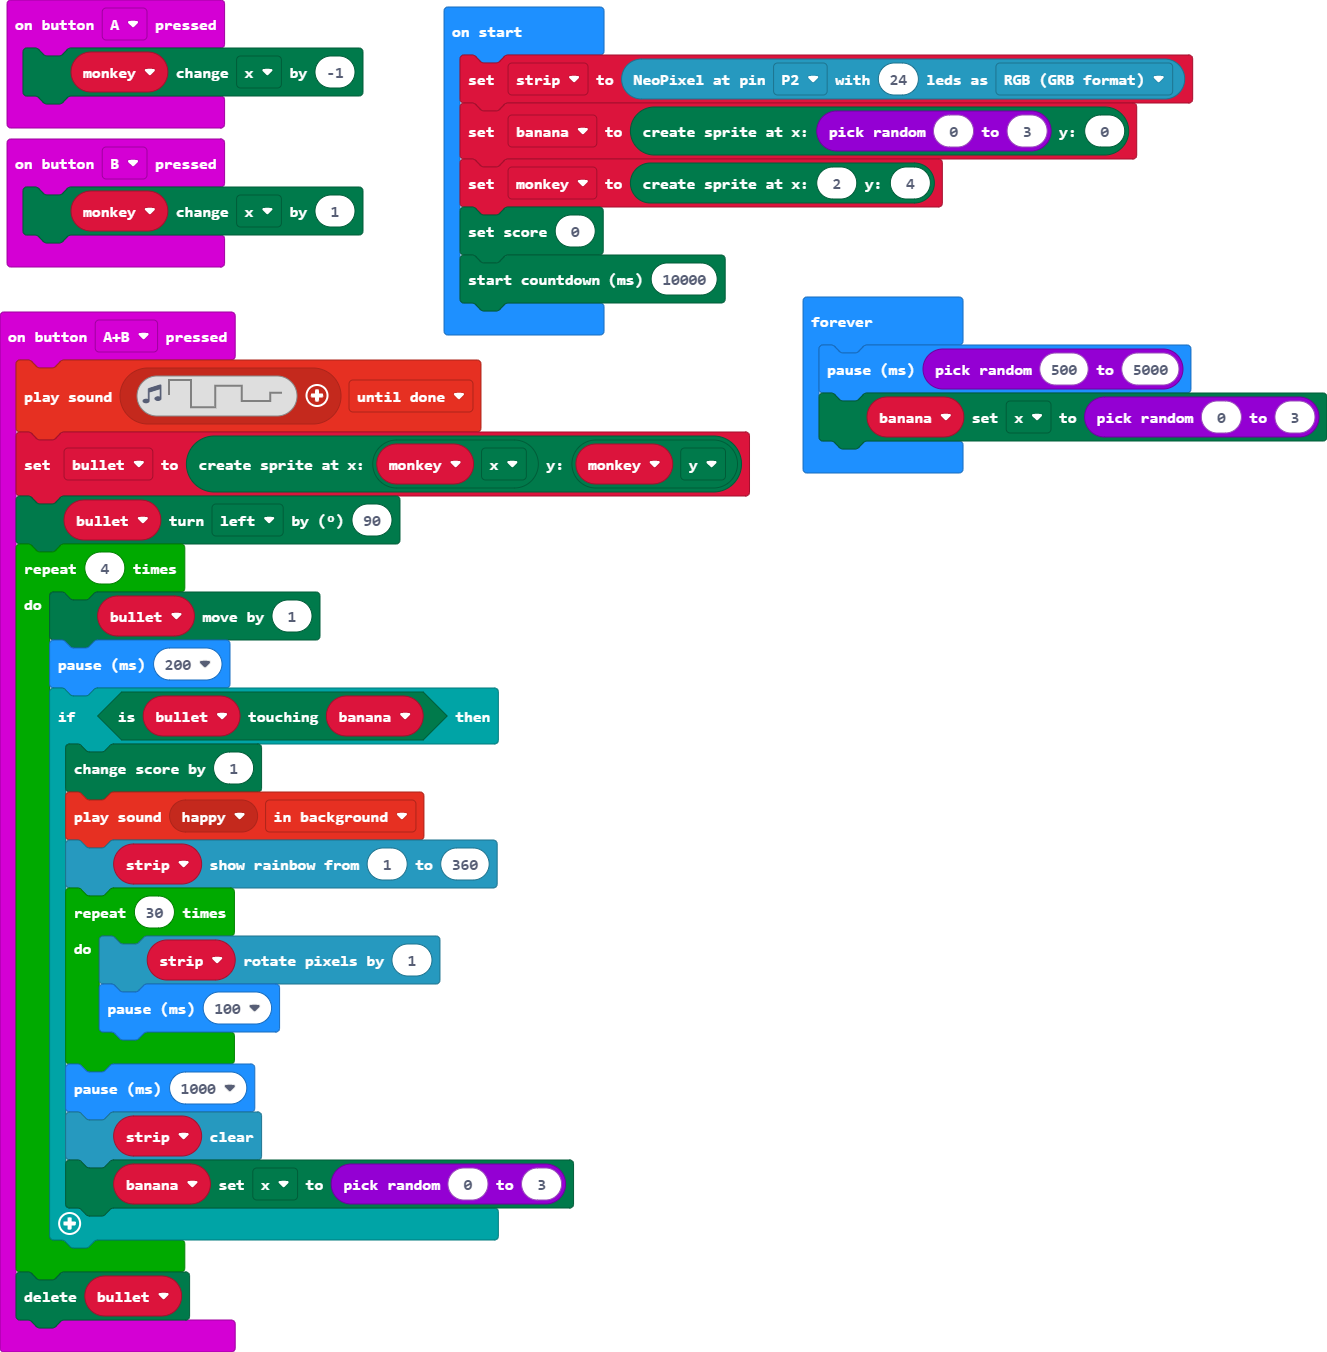
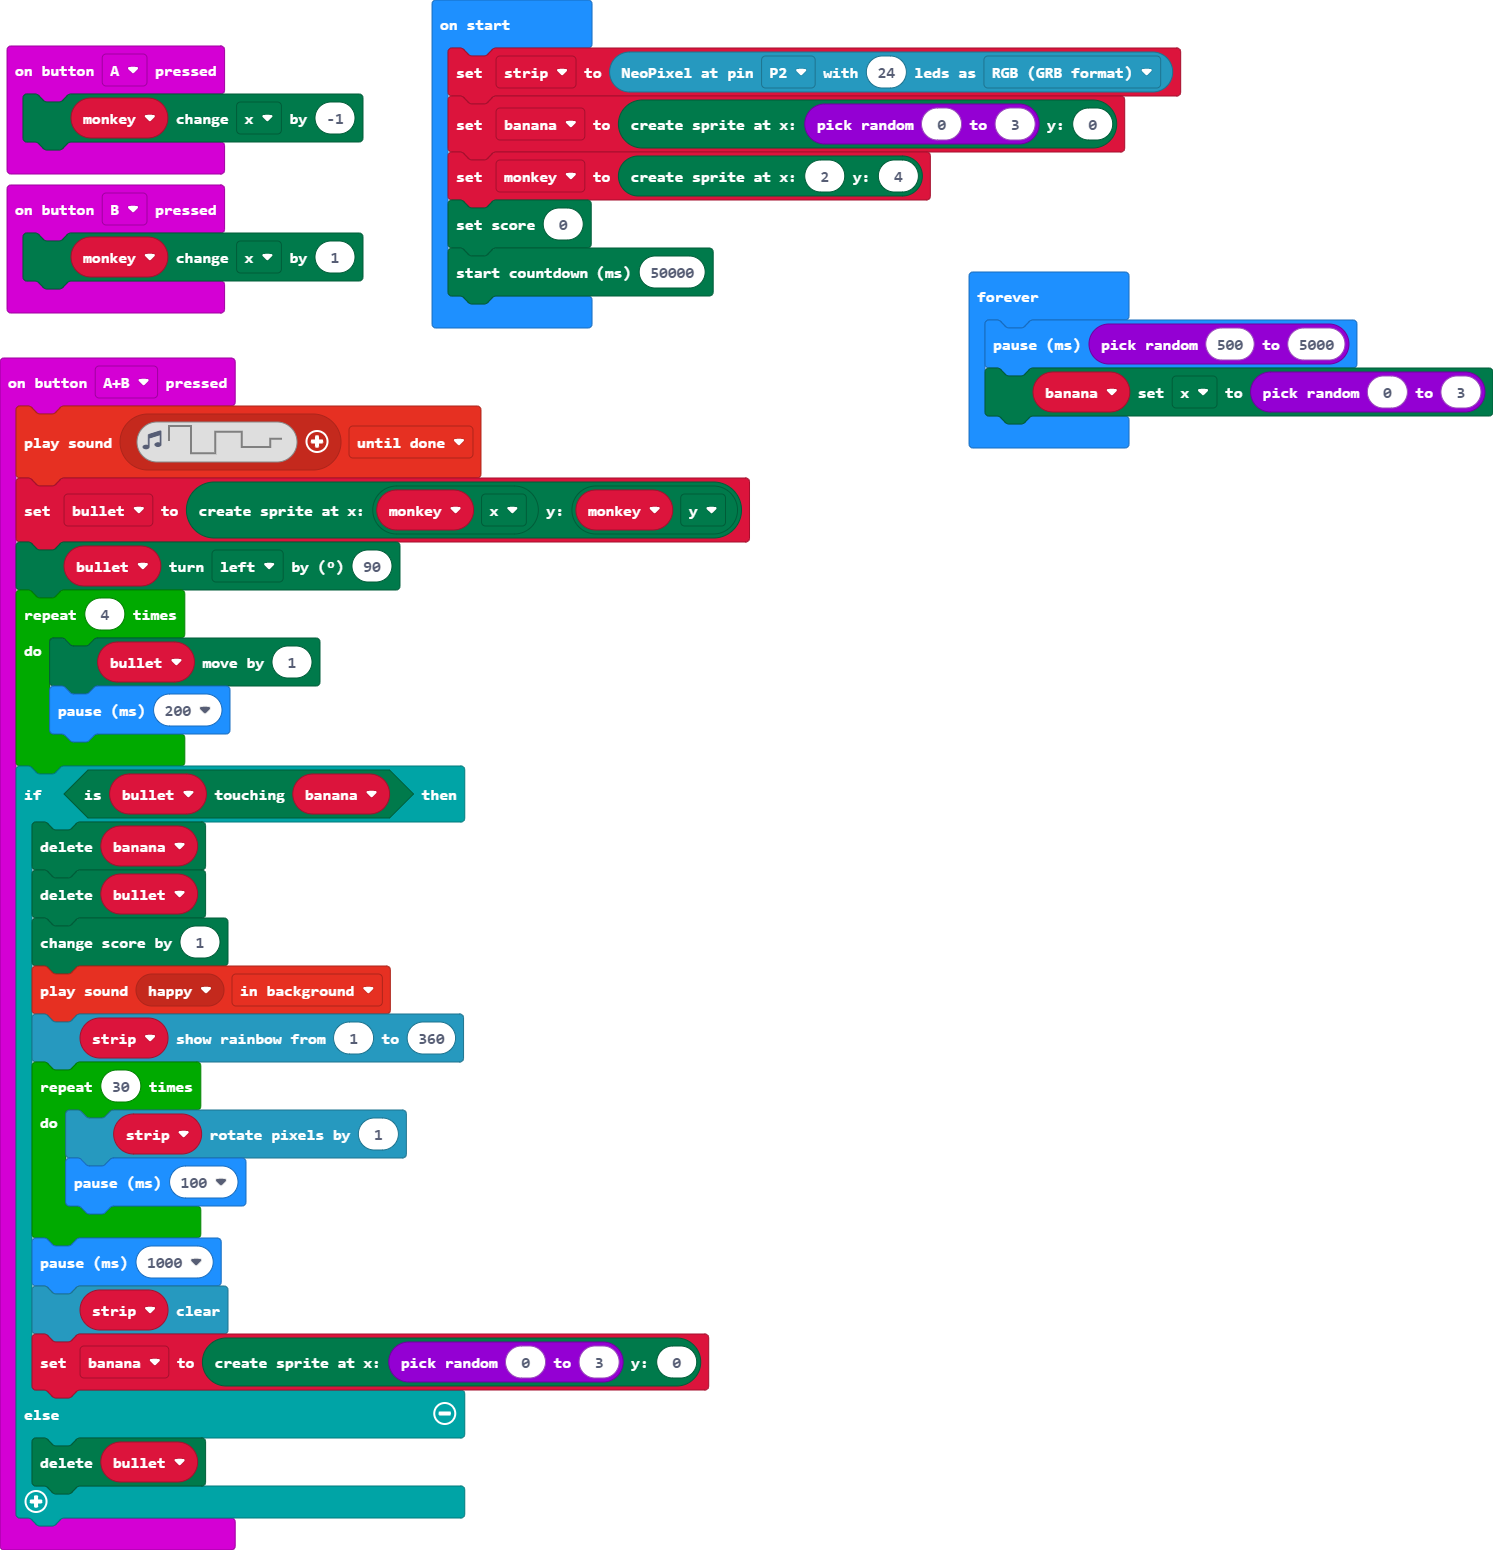
bug fix

diff --git a/main.ts b/main.ts
@@ -8,20 +8,23 @@ input.onButtonPressed(Button.AB, function () {
     for (let index = 0; index < 4; index++) {
         bullet.move(1)
         basic.pause(200)
-        if (bullet.isTouching(banana)) {
-            game.addScore(1)
-            music.playSoundEffect(music.builtinSoundEffect(soundExpression.happy), SoundExpressionPlayMode.InBackground)
-            strip.showRainbow(1, 360)
-            for (let index = 0; index < 30; index++) {
-                strip.rotate(1)
-                basic.pause(100)
-            }
-            basic.pause(1000)
-            strip.clear()
-            banana.set(LedSpriteProperty.X, randint(0, 3))
-        }
     }
-    bullet.delete()
+    if (bullet.isTouching(banana)) {
+        banana.delete()
+        bullet.delete()
+        game.addScore(1)
+        music.playSoundEffect(music.builtinSoundEffect(soundExpression.happy), SoundExpressionPlayMode.InBackground)
+        strip.showRainbow(1, 360)
+        for (let index = 0; index < 30; index++) {
+            strip.rotate(1)
+            basic.pause(100)
+        }
+        basic.pause(1000)
+        strip.clear()
+        banana = game.createSprite(randint(0, 3), 0)
+    } else {
+        bullet.delete()
+    }
 })
 input.onButtonPressed(Button.B, function () {
     monkey.change(LedSpriteProperty.X, 1)
@@ -34,7 +37,7 @@ strip = neopixel.create(DigitalPin.P2, 24, NeoPixelMode.RGB)
 banana = game.createSprite(randint(0, 3), 0)
 monkey = game.createSprite(2, 4)
 game.setScore(0)
-game.startCountdown(10000)
+game.startCountdown(50000)
 basic.forever(function () {
     basic.pause(randint(500, 5000))
     banana.set(LedSpriteProperty.X, randint(0, 3))

diff --git a/main.py b/main.py
@@ -1,0 +1,53 @@
+def on_button_pressed_a():
+    monkey.change(LedSpriteProperty.X, -1)
+input.on_button_pressed(Button.A, on_button_pressed_a)
+
+def on_button_pressed_ab():
+    global bullet
+    music.play_sound_effect(music.create_sound_effect(WaveShape.SQUARE,
+            1600,
+            1,
+            255,
+            0,
+            300,
+            SoundExpressionEffect.NONE,
+            InterpolationCurve.CURVE),
+        SoundExpressionPlayMode.UNTIL_DONE)
+    bullet = game.create_sprite(monkey.get(LedSpriteProperty.X),
+        monkey.get(LedSpriteProperty.Y))
+    bullet.turn(Direction.LEFT, 90)
+    for index in range(4):
+        bullet.move(1)
+        basic.pause(200)
+        if bullet.is_touching(banana):
+            game.add_score(1)
+            music.play_sound_effect(music.builtin_sound_effect(soundExpression.happy),
+                SoundExpressionPlayMode.IN_BACKGROUND)
+            strip.show_rainbow(1, 360)
+            for index2 in range(30):
+                strip.rotate(1)
+                basic.pause(100)
+            basic.pause(1000)
+            strip.clear()
+            banana.set(LedSpriteProperty.X, randint(0, 3))
+    bullet.delete()
+input.on_button_pressed(Button.AB, on_button_pressed_ab)
+
+def on_button_pressed_b():
+    monkey.change(LedSpriteProperty.X, 1)
+input.on_button_pressed(Button.B, on_button_pressed_b)
+
+bullet: game.LedSprite = None
+monkey: game.LedSprite = None
+banana: game.LedSprite = None
+strip: neopixel.Strip = None
+strip = neopixel.create(DigitalPin.P2, 24, NeoPixelMode.RGB)
+banana = game.create_sprite(randint(0, 3), 0)
+monkey = game.create_sprite(2, 4)
+game.set_score(0)
+game.start_countdown(10000)
+
+def on_forever():
+    basic.pause(randint(500, 5000))
+    banana.set(LedSpriteProperty.X, randint(0, 3))
+basic.forever(on_forever)
